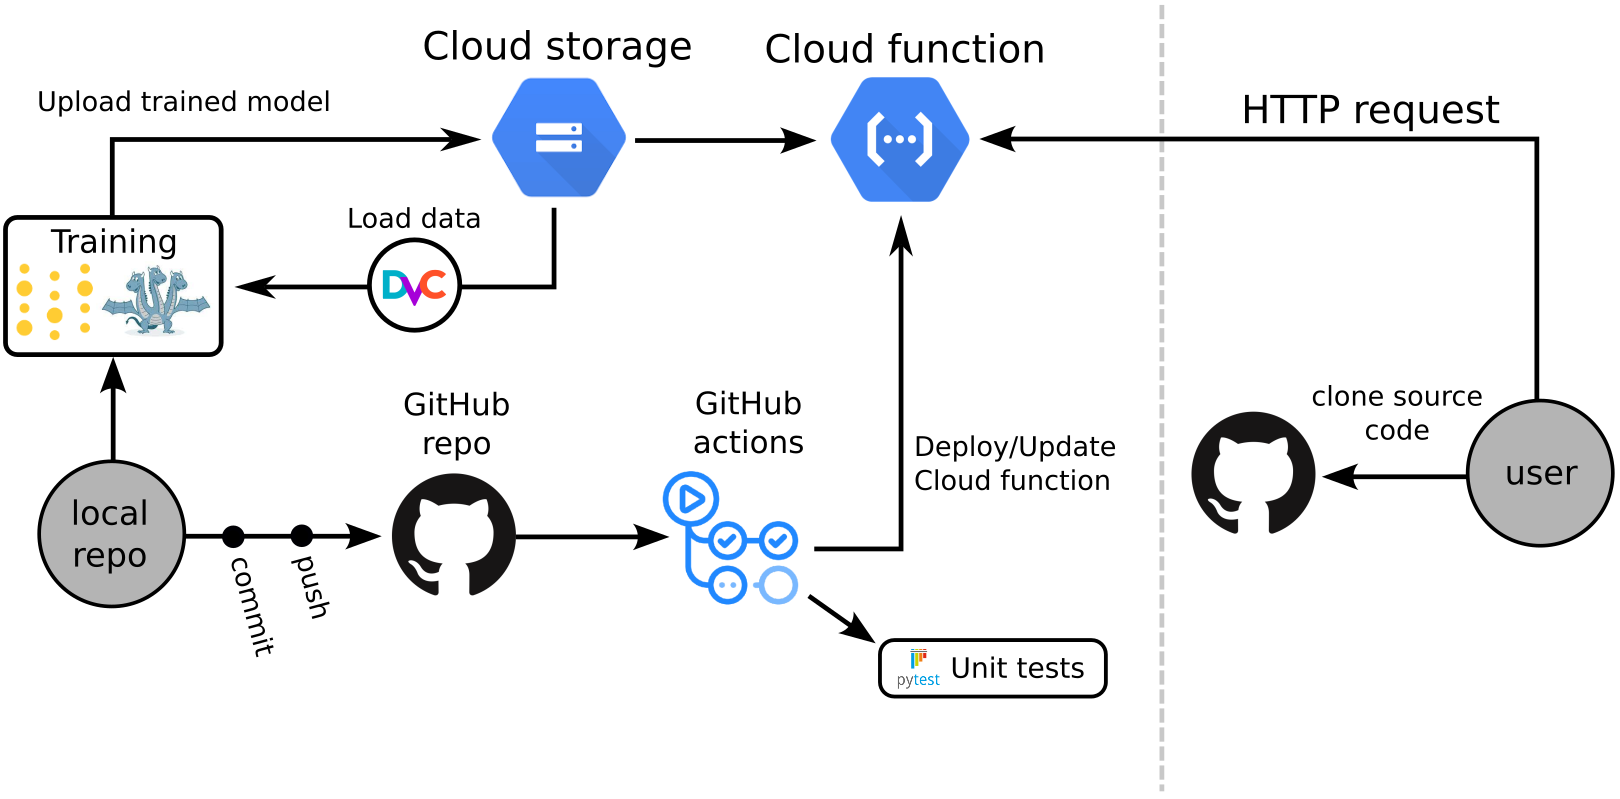
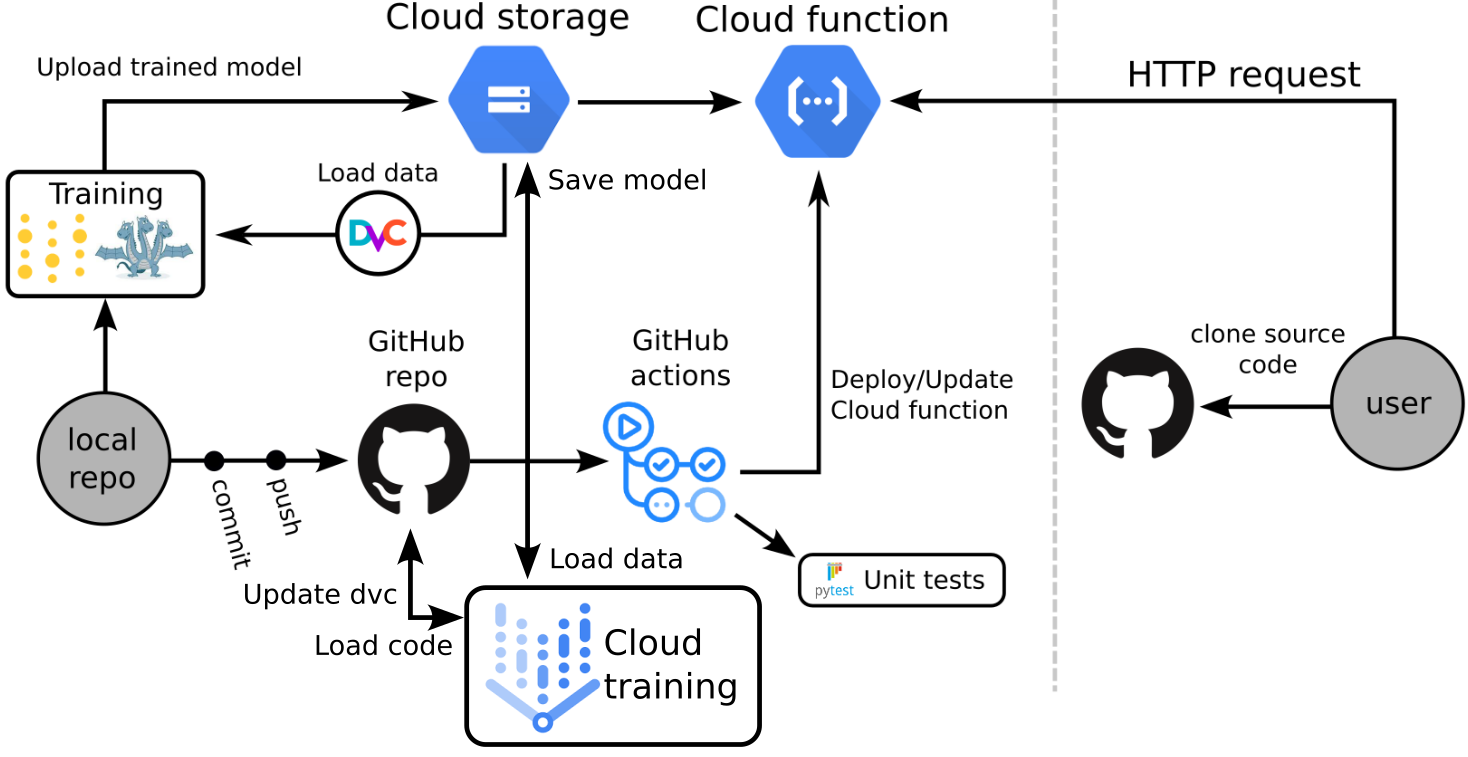
Update report

Changed region(s): [[0.0, 0.0, 0.9503, 1.0], [0.705, 0.4254, 1.0, 0.6988]]

diff --git a/reports/README.md b/reports/README.md
@@ -470,7 +470,7 @@ Our second workflow file handles automatic deployment and ensures the most recen
 >
 > Answer:
 
---- question 25 fill here ---
+--- Image of architecture - [image](figures/diagram.png) As the diagram shows we made use of multiple tools which the course made us familiar with. The starting point of the diafram is the local repository saved on our computers. To backup and share the code we used GitHub repository. In the repository we also setup GitHub actions workflow. The first workflow takes care of automatic unit testing. Later we added a second workflow which automatically deploys a Cloud function. The training of the model was done in two ways. First we tested the training on our local GPU. Later on we also trained the model in Cloud on more data. We used config files to save parameters of our experiments. The parameters were loaded using Hydra. We also used Weights and Biases for logging during training. Both data and the trained model are saved in Cloud storage. For data loading and version control we used DVC. The trained model is finally deployed as a Cloud function. As mentioned the code of the function is automatically deployed using GitHub Actions. The function itself loads the trained model from the Cloud storage. It accepts a HTTP request from the user and returns an image generated by the model in form of HTTP page. ---
 
 ### Question 26
 
